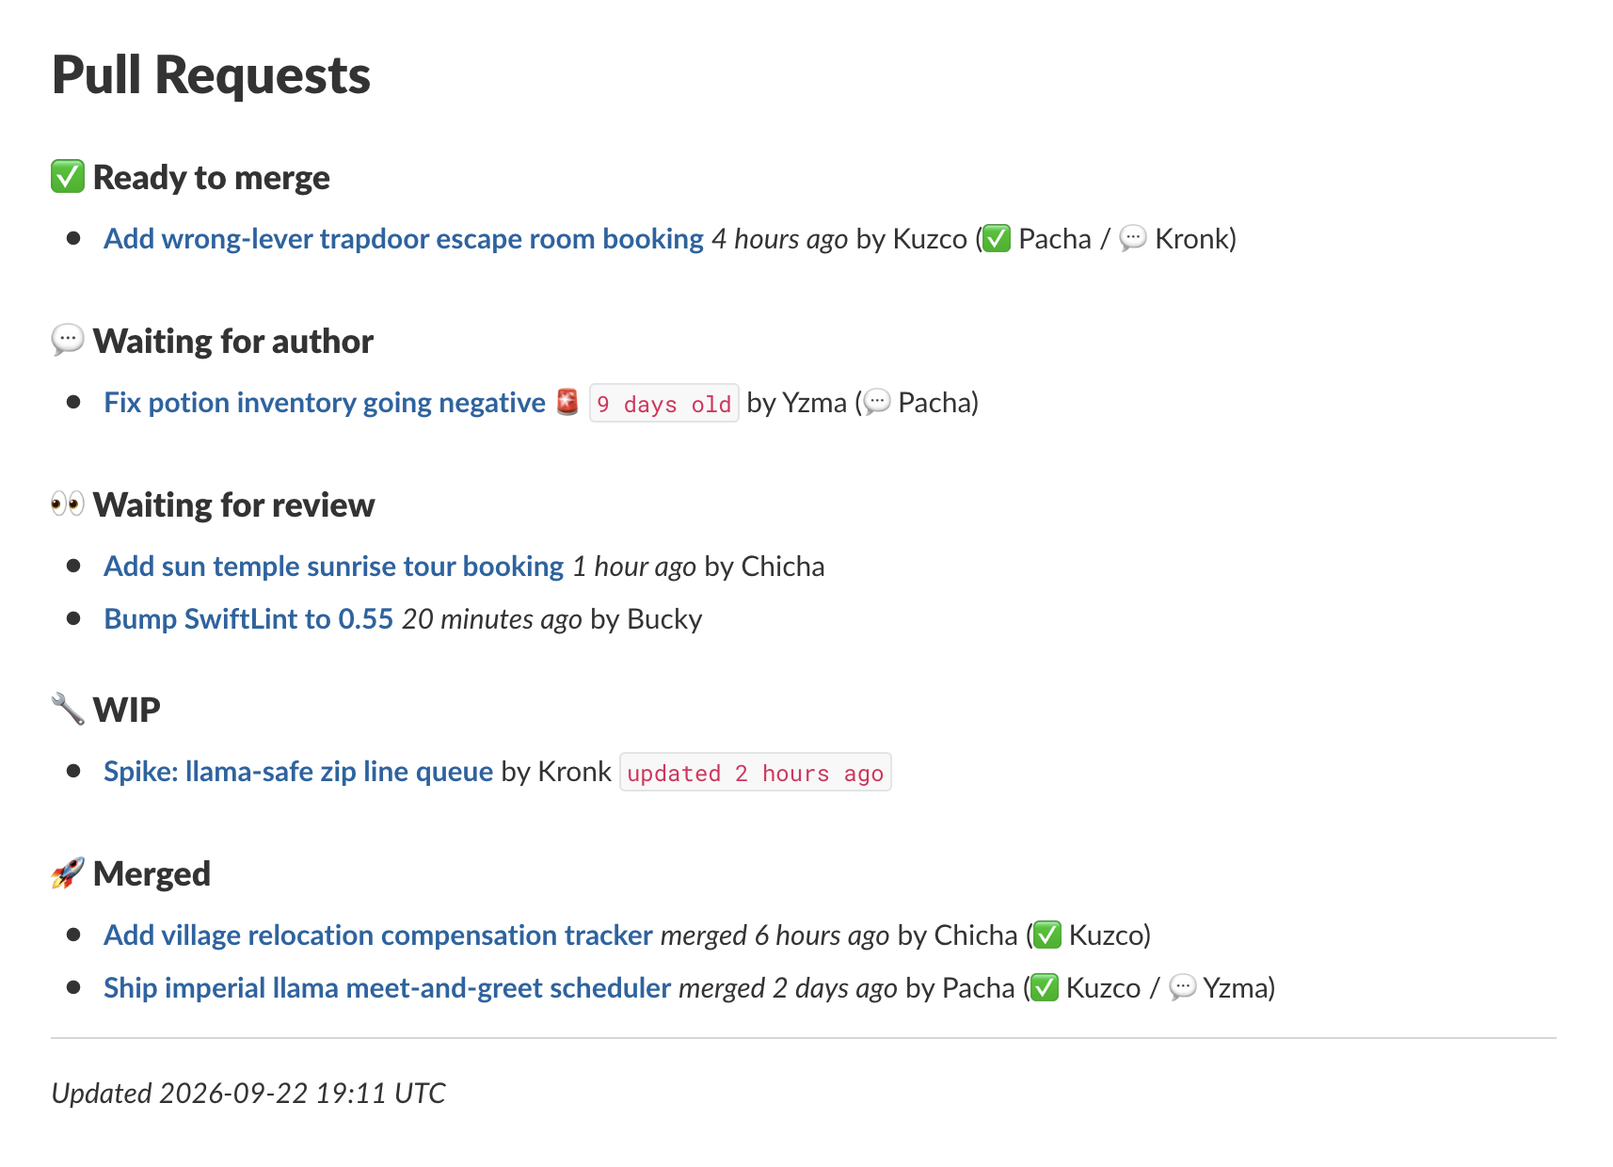
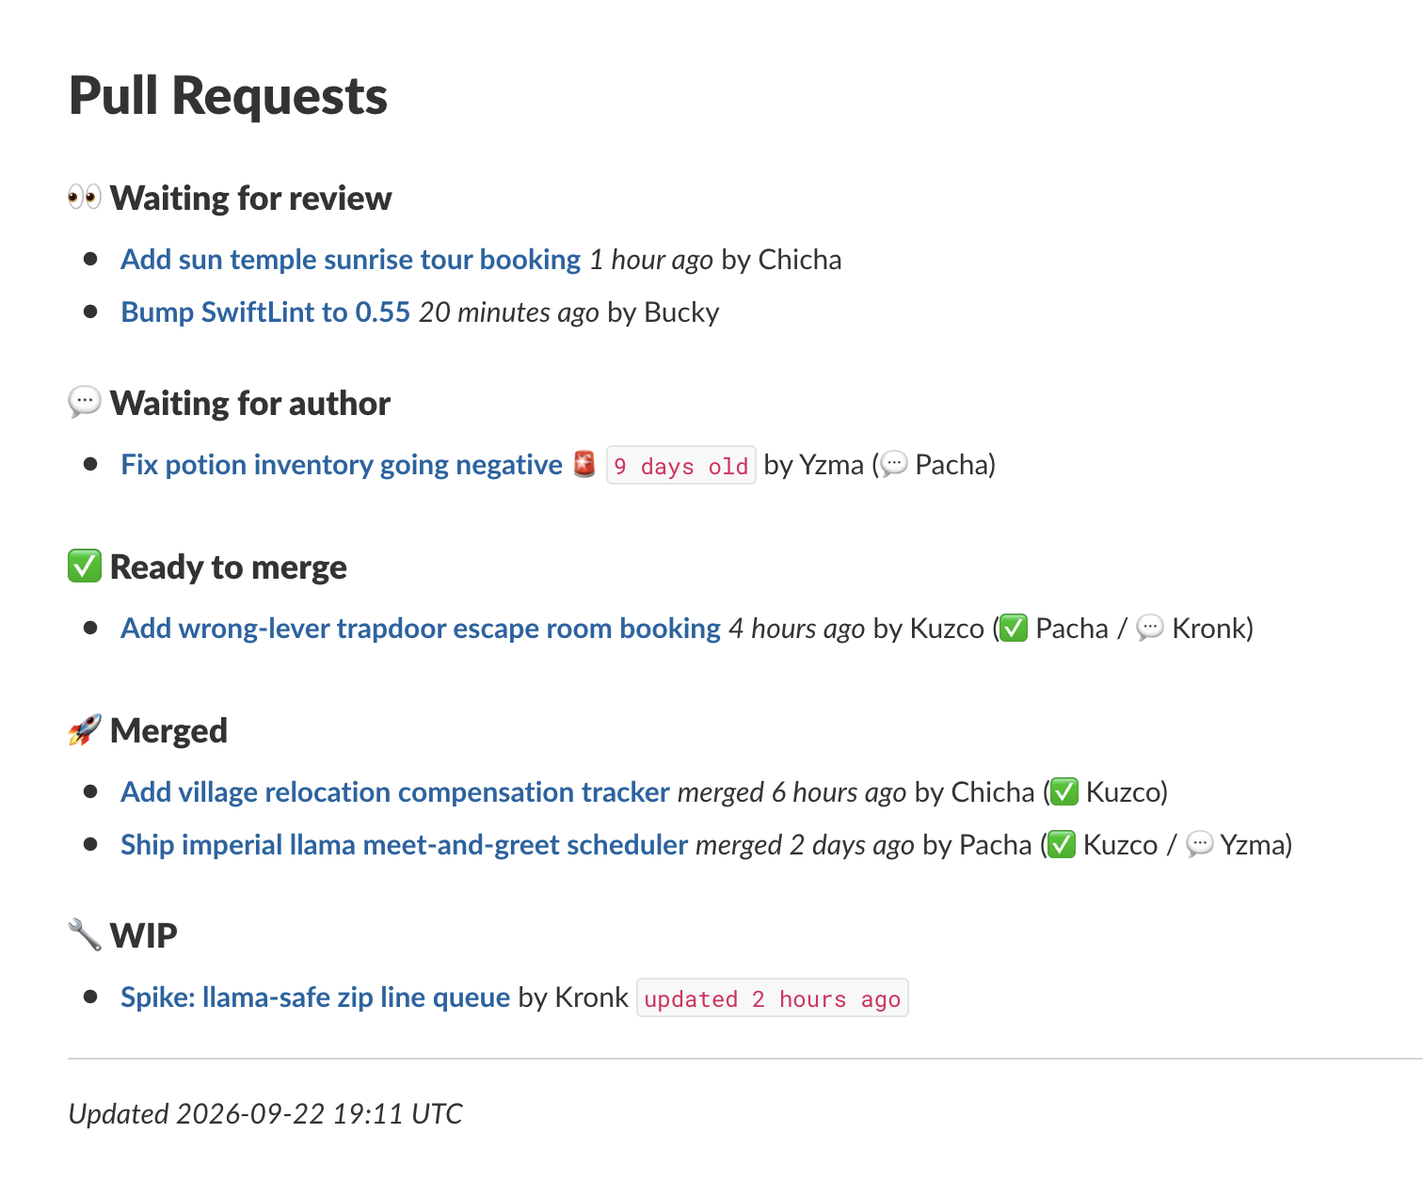
Reorder canvas sections: waiting for review first, WIP last (#77)
* Reorder canvas sections: waiting for review first, WIP last

The canvas now reads Waiting for review, Waiting for author, Ready to
merge, Merged, WIP. The most urgent ask leads and drafts, the least
actionable, come last. The Slack message is unchanged.

Claude-Session: https://claude.ai/code/session_01QU3XqSY37cbw4W6xkQNPJ1

* Update the example canvas screenshot to the new section order

---------

diff --git a/internal/canvasbuilder/canvasbuilder.go b/internal/canvasbuilder/canvasbuilder.go
@@ -13,12 +13,12 @@ import (
 )
 
 const (
-	readyToMergeHeading      = "## ✅ Ready to merge"
-	waitingForAuthorHeading  = "## 💬 Waiting for author"
 	waitingForReviewHeading  = "## 👀 Waiting for review"
+	waitingForAuthorHeading  = "## 💬 Waiting for author"
+	readyToMergeHeading      = "## ✅ Ready to merge"
 	openPRsHeading           = "## Open"
-	wipPRsHeading            = "## 🔧 WIP"
 	mergedPRsHeading         = "## 🚀 Merged"
+	wipPRsHeading            = "## 🔧 WIP"
 	noOpenPRsText            = "_No open PRs_"
 	noWIPPRsText             = "_No work in progress_"
 	noMergedPRsText          = "_No merged PRs_"
@@ -30,20 +30,20 @@ const (
 func BuildMarkdown(content canvascontent.Content) string {
 	blocks := renderOpenSections(content)
 	blocks = append(blocks, renderSectionBlocks(section{
-		heading:             wipPRsHeading,
-		prs:                 content.WIP.PRs,
-		groups:              content.WIP.Groups,
-		groupedByRepository: content.GroupedByRepository,
-		renderRow:           renderWIPPRRow,
-		emptyText:           noWIPPRsText,
-	})...)
-	blocks = append(blocks, renderSectionBlocks(section{
 		heading:             mergedPRsHeading,
 		prs:                 content.Merged.PRs,
 		groups:              content.Merged.Groups,
 		groupedByRepository: content.GroupedByRepository,
 		renderRow:           renderMergedPRRow,
 		emptyText:           emptyMergedPRsText(content),
+	})...)
+	blocks = append(blocks, renderSectionBlocks(section{
+		heading:             wipPRsHeading,
+		prs:                 content.WIP.PRs,
+		groups:              content.WIP.Groups,
+		groupedByRepository: content.GroupedByRepository,
+		renderRow:           renderWIPPRRow,
+		emptyText:           noWIPPRsText,
 	})...)
 	// A blank block collapses to no space in Slack's canvas renderer: a non-breaking space
 	// forces the line to render, giving room above the divider.
@@ -55,9 +55,9 @@ func BuildMarkdown(content canvascontent.Content) string {
 // All three buckets empty falls back to the single "Open" heading with "No open PRs" text.
 func renderOpenSections(content canvascontent.Content) []string {
 	nextActionSections := []section{
-		openSection(readyToMergeHeading, content.ReadyToMerge, content.GroupedByRepository),
-		openSection(waitingForAuthorHeading, content.WaitingForAuthor, content.GroupedByRepository),
 		openSection(waitingForReviewHeading, content.WaitingForReview, content.GroupedByRepository),
+		openSection(waitingForAuthorHeading, content.WaitingForAuthor, content.GroupedByRepository),
+		openSection(readyToMergeHeading, content.ReadyToMerge, content.GroupedByRepository),
 	}
 
 	blocks := utilities.FlatMap(utilities.Map(nextActionSections, renderSectionBlocks))

diff --git a/internal/canvasbuilder/canvasbuilder_test.go b/internal/canvasbuilder/canvasbuilder_test.go
@@ -482,7 +482,10 @@ func TestBuildMarkdownSectionHeadings(t *testing.T) {
 		number: 1, title: "Add pagination to the PR listing", authorName: "Alice Anderson",
 		age: hoursAge,
 	})}}
-	alwaysRenderedHeadings := []string{"## 🔧 WIP", "## 🚀 Merged"}
+	grouped := canvascontent.PRSection{
+		Groups: prview.GroupPRsByRepositoriesInGivenOrder(filled.PRs),
+	}
+	alwaysRenderedHeadings := []string{"## 🚀 Merged", "## 🔧 WIP"}
 
 	testCases := []struct {
 		name                 string
@@ -509,7 +512,7 @@ func TestBuildMarkdownSectionHeadings(t *testing.T) {
 			content: canvascontent.Content{
 				ReadyToMerge: filled, WaitingForReview: filled,
 			},
-			expectedOpenHeadings: []string{"## ✅ Ready to merge", "## 👀 Waiting for review"},
+			expectedOpenHeadings: []string{"## 👀 Waiting for review", "## ✅ Ready to merge"},
 		},
 		{
 			name: "every section filled",
@@ -518,11 +521,22 @@ func TestBuildMarkdownSectionHeadings(t *testing.T) {
 				WIP: filled, Merged: filled,
 			},
 			expectedOpenHeadings: []string{
-				"## ✅ Ready to merge", "## 💬 Waiting for author", "## 👀 Waiting for review",
+				"## 👀 Waiting for review", "## 💬 Waiting for author", "## ✅ Ready to merge",
 			},
 		},
 		{
-			// Nothing open at all keeps one heading, so the canvas does not open at ## 🔧 WIP.
+			name: "every section filled while grouping by repository",
+			content: canvascontent.Content{
+				ReadyToMerge: grouped, WaitingForAuthor: grouped, WaitingForReview: grouped,
+				WIP: grouped, Merged: grouped,
+				GroupedByRepository: true,
+			},
+			expectedOpenHeadings: []string{
+				"## 👀 Waiting for review", "## 💬 Waiting for author", "## ✅ Ready to merge",
+			},
+		},
+		{
+			// Nothing open at all keeps one heading, so the canvas does not open at ## 🚀 Merged.
 			name:                 "nothing open",
 			content:              canvascontent.Content{},
 			expectedOpenHeadings: []string{"## Open"},

diff --git a/internal/canvasbuilder/testdata/TestBuildMarkdownSnapshots-all-sections-grouped-by-repository.md b/internal/canvasbuilder/testdata/TestBuildMarkdownSnapshots-all-sections-grouped-by-repository.md
@@ -1,33 +1,3 @@
-## ✅ Ready to merge
-
-### [repo-three](https://github.com/test-org/repo-three/pulls)
-
-- **[Drop the deprecated input](https://github.com/test-org/repo-three/pull/23)** _3 days ago_ by Carol Clark (✅ Frank Foster / 💬 Erin Evans)
-
-### [test-repo](https://github.com/test-org/test-repo/pulls)
-
-- **[Cache the repository lookups](https://github.com/test-org/test-repo/pull/21)** _5 hours ago_ by Alice Anderson (✅ Dana Davis)
-- **[Pin the action digests](https://github.com/test-org/test-repo/pull/24)** _5 hours ago_ by Dana Davis (✅ Alice Anderson, Bob Brown / 💬 Carol Clark, Erin Evans)
-
-### [repo-two](https://github.com/test-org/repo-two/pulls)
-
-- **[Retry the artifact download](https://github.com/test-org/repo-two/pull/22)** _30 minutes ago_ by Bob Brown (✅ Dana Davis, Erin Evans)
-
-## 💬 Waiting for author
-
-### [test-repo](https://github.com/test-org/test-repo/pulls)
-
-- **[Rework the snooze parser](https://github.com/test-org/test-repo/pull/31)** 🚨 `10 days old` by Bob Brown (💬 Dana Davis)
-- **[Escape the canvas titles](https://github.com/test-org/test-repo/pull/34)** _30 minutes ago_ by Erin Evans (💬 Frank Foster)
-
-### [repo-two](https://github.com/test-org/repo-two/pulls)
-
-- **[Split the config package](https://github.com/test-org/repo-two/pull/32)** _3 days ago_ by Carol Clark (💬 Alice Anderson, Erin Evans)
-
-### [repo-three](https://github.com/test-org/repo-three/pulls)
-
-- **[Handle the 404 on missing repositories](https://github.com/test-org/repo-three/pull/33)** _5 hours ago_ by Dana Davis (✅ Alice Anderson / 💬 Bob Brown)
-
 ## 👀 Waiting for review
 
 ### [test-repo](https://github.com/test-org/test-repo/pulls)
@@ -45,15 +15,35 @@
 - **[Bump golangci-lint](https://github.com/test-org/repo-two/pull/45)** _5 hours ago_ by Erin Evans
 - **[Document the canvas scopes](https://github.com/test-org/repo-two/pull/42)** _30 minutes ago_ by Bob Brown
 
-## 🔧 WIP
-
-### [repo-two](https://github.com/test-org/repo-two/pulls)
-
-- **[Draft the migration guide](https://github.com/test-org/repo-two/pull/11)** by Bob Brown `updated 30 minutes ago`
+## 💬 Waiting for author
 
 ### [test-repo](https://github.com/test-org/test-repo/pulls)
 
-- **[Spike: replace mux with chi](https://github.com/test-org/test-repo/pull/3)** by Carol Clark `updated 5 hours ago`
+- **[Rework the snooze parser](https://github.com/test-org/test-repo/pull/31)** 🚨 `10 days old` by Bob Brown (💬 Dana Davis)
+- **[Escape the canvas titles](https://github.com/test-org/test-repo/pull/34)** _30 minutes ago_ by Erin Evans (💬 Frank Foster)
+
+### [repo-two](https://github.com/test-org/repo-two/pulls)
+
+- **[Split the config package](https://github.com/test-org/repo-two/pull/32)** _3 days ago_ by Carol Clark (💬 Alice Anderson, Erin Evans)
+
+### [repo-three](https://github.com/test-org/repo-three/pulls)
+
+- **[Handle the 404 on missing repositories](https://github.com/test-org/repo-three/pull/33)** _5 hours ago_ by Dana Davis (✅ Alice Anderson / 💬 Bob Brown)
+
+## ✅ Ready to merge
+
+### [repo-three](https://github.com/test-org/repo-three/pulls)
+
+- **[Drop the deprecated input](https://github.com/test-org/repo-three/pull/23)** _3 days ago_ by Carol Clark (✅ Frank Foster / 💬 Erin Evans)
+
+### [test-repo](https://github.com/test-org/test-repo/pulls)
+
+- **[Cache the repository lookups](https://github.com/test-org/test-repo/pull/21)** _5 hours ago_ by Alice Anderson (✅ Dana Davis)
+- **[Pin the action digests](https://github.com/test-org/test-repo/pull/24)** _5 hours ago_ by Dana Davis (✅ Alice Anderson, Bob Brown / 💬 Carol Clark, Erin Evans)
+
+### [repo-two](https://github.com/test-org/repo-two/pulls)
+
+- **[Retry the artifact download](https://github.com/test-org/repo-two/pull/22)** _30 minutes ago_ by Bob Brown (✅ Dana Davis, Erin Evans)
 
 ## 🚀 Merged
 
@@ -64,6 +54,16 @@
 ### [test-repo](https://github.com/test-org/test-repo/pulls)
 
 - **[Drop the REST fallback](https://github.com/test-org/test-repo/pull/9)** _merged 3 days ago_ by Alice Anderson (✅ Dana Davis / 💬 Erin Evans)
+
+## 🔧 WIP
+
+### [repo-two](https://github.com/test-org/repo-two/pulls)
+
+- **[Draft the migration guide](https://github.com/test-org/repo-two/pull/11)** by Bob Brown `updated 30 minutes ago`
+
+### [test-repo](https://github.com/test-org/test-repo/pulls)
+
+- **[Spike: replace mux with chi](https://github.com/test-org/test-repo/pull/3)** by Carol Clark `updated 5 hours ago`
 
 
 

diff --git a/internal/canvasbuilder/testdata/TestBuildMarkdownSnapshots-flat-open-PRs-and-WIP-PRs.md b/internal/canvasbuilder/testdata/TestBuildMarkdownSnapshots-flat-open-PRs-and-WIP-PRs.md
@@ -1,17 +1,3 @@
-## ✅ Ready to merge
-
-- **[Drop the deprecated input](https://github.com/test-org/repo-three/pull/23)** _3 days ago_ by Carol Clark (✅ Frank Foster / 💬 Erin Evans)
-- **[Cache the repository lookups](https://github.com/test-org/test-repo/pull/21)** _5 hours ago_ by Alice Anderson (✅ Dana Davis)
-- **[Pin the action digests](https://github.com/test-org/test-repo/pull/24)** _5 hours ago_ by Dana Davis (✅ Alice Anderson, Bob Brown / 💬 Carol Clark, Erin Evans)
-- **[Retry the artifact download](https://github.com/test-org/repo-two/pull/22)** _30 minutes ago_ by Bob Brown (✅ Dana Davis, Erin Evans)
-
-## 💬 Waiting for author
-
-- **[Rework the snooze parser](https://github.com/test-org/test-repo/pull/31)** 🚨 `10 days old` by Bob Brown (💬 Dana Davis)
-- **[Split the config package](https://github.com/test-org/repo-two/pull/32)** _3 days ago_ by Carol Clark (💬 Alice Anderson, Erin Evans)
-- **[Handle the 404 on missing repositories](https://github.com/test-org/repo-three/pull/33)** _5 hours ago_ by Dana Davis (✅ Alice Anderson / 💬 Bob Brown)
-- **[Escape the canvas titles](https://github.com/test-org/test-repo/pull/34)** _30 minutes ago_ by Erin Evans (💬 Frank Foster)
-
 ## 👀 Waiting for review
 
 - **[Trim the trailing newline](https://github.com/test-org/test-repo/pull/44)** 🚨 `10 days old` by Dana Davis
@@ -21,15 +7,29 @@
 - **[Document the canvas scopes](https://github.com/test-org/repo-two/pull/42)** _30 minutes ago_ by Bob Brown
 - **[Collapse the duplicate filters](https://github.com/test-org/repo-three/pull/46)** _30 minutes ago_ by Frank Foster
 
-## 🔧 WIP
+## 💬 Waiting for author
 
-- **[Spike: replace mux with chi](https://github.com/test-org/test-repo/pull/3)** by Carol Clark `updated 5 hours ago`
-- **[Draft the migration guide](https://github.com/test-org/repo-two/pull/11)** by Bob Brown `updated 30 minutes ago`
+- **[Rework the snooze parser](https://github.com/test-org/test-repo/pull/31)** 🚨 `10 days old` by Bob Brown (💬 Dana Davis)
+- **[Split the config package](https://github.com/test-org/repo-two/pull/32)** _3 days ago_ by Carol Clark (💬 Alice Anderson, Erin Evans)
+- **[Handle the 404 on missing repositories](https://github.com/test-org/repo-three/pull/33)** _5 hours ago_ by Dana Davis (✅ Alice Anderson / 💬 Bob Brown)
+- **[Escape the canvas titles](https://github.com/test-org/test-repo/pull/34)** _30 minutes ago_ by Erin Evans (💬 Frank Foster)
+
+## ✅ Ready to merge
+
+- **[Drop the deprecated input](https://github.com/test-org/repo-three/pull/23)** _3 days ago_ by Carol Clark (✅ Frank Foster / 💬 Erin Evans)
+- **[Cache the repository lookups](https://github.com/test-org/test-repo/pull/21)** _5 hours ago_ by Alice Anderson (✅ Dana Davis)
+- **[Pin the action digests](https://github.com/test-org/test-repo/pull/24)** _5 hours ago_ by Dana Davis (✅ Alice Anderson, Bob Brown / 💬 Carol Clark, Erin Evans)
+- **[Retry the artifact download](https://github.com/test-org/repo-two/pull/22)** _30 minutes ago_ by Bob Brown (✅ Dana Davis, Erin Evans)
 
 ## 🚀 Merged
 
 - **[Bump the Slack SDK](https://github.com/test-org/repo-two/pull/2)** _merged 5 hours ago_ by Bob Brown
 - **[Drop the REST fallback](https://github.com/test-org/test-repo/pull/9)** _merged 3 days ago_ by Alice Anderson (✅ Dana Davis / 💬 Erin Evans)
+
+## 🔧 WIP
+
+- **[Spike: replace mux with chi](https://github.com/test-org/test-repo/pull/3)** by Carol Clark `updated 5 hours ago`
+- **[Draft the migration guide](https://github.com/test-org/repo-two/pull/11)** by Bob Brown `updated 30 minutes ago`
 
 
 

diff --git a/internal/canvasbuilder/canvasbuilder.spec.md b/internal/canvasbuilder/canvasbuilder.spec.md
@@ -4,9 +4,9 @@ Renders `canvascontent.Content` as the markdown of a Slack canvas, as one string
 
 ## Behaviour
 
-- `BuildMarkdown(content)` renders the open PRs as three sections, `## ✅ Ready to merge`, then `## 💬 Waiting for author`, then `## 👀 Waiting for review`, then `## 🔧 WIP`, then `## 🚀 Merged`, each with its own list
-- An open section with no PRs renders nothing at all, heading included, so a reader scanning the headings sees only the buckets asking something of them. `## 🔧 WIP` and `## 🚀 Merged` always render
-- All three open sections empty renders one `## Open` heading with `_No open PRs_`, the zero state the canvas had before the open split: a canvas opening at `## 🔧 WIP` would read as a broken render
+- `BuildMarkdown(content)` renders five sections, each with its own list: the open PRs split into `## 👀 Waiting for review`, `## 💬 Waiting for author` and `## ✅ Ready to merge`, then `## 🚀 Merged`, then `## 🔧 WIP`. The most urgent ask leads. Drafts are the least actionable, so they come last
+- An open section with no PRs renders nothing at all, heading included, so a reader scanning the headings sees only the buckets asking something of them. `## 🚀 Merged` and `## 🔧 WIP` always render
+- All three open sections empty renders one `## Open` heading with `_No open PRs_` in their place, the zero state the canvas had before the open split: a canvas opening at `## 🚀 Merged` would read as a broken render
 - `## Open` is the one heading without an emoji: it stands for all three open buckets, so no single emoji fits it
 - Any section can render grouped: its PRs then get one `###` sub-heading per repository, the repository name without its owner, linking to `models.Repository.GetPullsURL()`. The section heading above them already scopes the rows, so it is not repeated. Each section reads its own grouped slice, so all of them group together, off the one `Content.GroupedByRepository` flag. Nothing dedupes a repository across sections, so one repository can carry a `###` heading under each
 - The three open sections share one row renderer, one empty-state line and one heading level: only the heading text and the PR list differ. A PR's bucket is `canvascontent`'s to decide

diff --git a/internal/canvasbuilder/testdata/TestBuildMarkdownSnapshots-nothing-ready-to-merge.md b/internal/canvasbuilder/testdata/TestBuildMarkdownSnapshots-nothing-ready-to-merge.md
@@ -1,10 +1,3 @@
-## 💬 Waiting for author
-
-- **[Rework the snooze parser](https://github.com/test-org/test-repo/pull/31)** 🚨 `10 days old` by Bob Brown (💬 Dana Davis)
-- **[Split the config package](https://github.com/test-org/repo-two/pull/32)** _3 days ago_ by Carol Clark (💬 Alice Anderson, Erin Evans)
-- **[Handle the 404 on missing repositories](https://github.com/test-org/repo-three/pull/33)** _5 hours ago_ by Dana Davis (✅ Alice Anderson / 💬 Bob Brown)
-- **[Escape the canvas titles](https://github.com/test-org/test-repo/pull/34)** _30 minutes ago_ by Erin Evans (💬 Frank Foster)
-
 ## 👀 Waiting for review
 
 - **[Trim the trailing newline](https://github.com/test-org/test-repo/pull/44)** 🚨 `10 days old` by Dana Davis
@@ -14,13 +7,20 @@
 - **[Document the canvas scopes](https://github.com/test-org/repo-two/pull/42)** _30 minutes ago_ by Bob Brown
 - **[Collapse the duplicate filters](https://github.com/test-org/repo-three/pull/46)** _30 minutes ago_ by Frank Foster
 
-## 🔧 WIP
+## 💬 Waiting for author
 
-- **[Spike: replace mux with chi](https://github.com/test-org/test-repo/pull/3)** by Carol Clark `updated 5 hours ago`
+- **[Rework the snooze parser](https://github.com/test-org/test-repo/pull/31)** 🚨 `10 days old` by Bob Brown (💬 Dana Davis)
+- **[Split the config package](https://github.com/test-org/repo-two/pull/32)** _3 days ago_ by Carol Clark (💬 Alice Anderson, Erin Evans)
+- **[Handle the 404 on missing repositories](https://github.com/test-org/repo-three/pull/33)** _5 hours ago_ by Dana Davis (✅ Alice Anderson / 💬 Bob Brown)
+- **[Escape the canvas titles](https://github.com/test-org/test-repo/pull/34)** _30 minutes ago_ by Erin Evans (💬 Frank Foster)
 
 ## 🚀 Merged
 
 _No merged PRs_
+
+## 🔧 WIP
+
+- **[Spike: replace mux with chi](https://github.com/test-org/test-repo/pull/3)** by Carol Clark `updated 5 hours ago`
 
 
 

diff --git a/README.md b/README.md
@@ -200,7 +200,7 @@ Optional: keep a Slack canvas updated with a live view of open, draft and recent
 
 <img src="docs/examples/example_canvas.png" alt="Example PR tracker canvas" width="600" style="border: 1px solid #ddd; border-radius: 4px; padding: 8px;">
 
-Open PRs are split by whose turn it is: an approved PR with nothing outstanding is ready to merge (1); a PR carrying a changes request whose reviewer hasn't been re-requested, or a review thread its author hasn't answered, and an approved one that now conflicts, are waiting for the author (2); everything else is waiting for review (3).
+Open PRs are split by whose turn it is: waiting for review (1) is every open PR not in the other two; waiting for the author (2) is a PR carrying a changes request whose reviewer hasn't been re-requested, or a review thread its author hasn't answered, or an approved one that now conflicts; ready to merge (3) is an approved PR with nothing outstanding.
 
 Each open section is listed oldest first, WIP PRs by most recent activity, merged PRs by most recent merge. At most 5 drafts idle for over 24 hours are shown. The merged section lists at most 6 PRs merged within the last 7 days.
 

diff --git a/internal/canvasbuilder/testdata/TestBuildMarkdownSnapshots-ready-to-merge-PRs-only.md b/internal/canvasbuilder/testdata/TestBuildMarkdownSnapshots-ready-to-merge-PRs-only.md
@@ -5,13 +5,13 @@
 - **[Pin the action digests](https://github.com/test-org/test-repo/pull/24)** _5 hours ago_ by Dana Davis (✅ Alice Anderson, Bob Brown / 💬 Carol Clark, Erin Evans)
 - **[Retry the artifact download](https://github.com/test-org/repo-two/pull/22)** _30 minutes ago_ by Bob Brown (✅ Dana Davis, Erin Evans)
 
-## 🔧 WIP
-
-- **[Spike: replace mux with chi](https://github.com/test-org/test-repo/pull/3)** by Carol Clark `updated 5 hours ago`
-
 ## 🚀 Merged
 
 _No merged PRs_
+
+## 🔧 WIP
+
+- **[Spike: replace mux with chi](https://github.com/test-org/test-repo/pull/3)** by Carol Clark `updated 5 hours ago`
 
 
 

diff --git a/internal/canvasbuilder/testdata/TestBuildMarkdownSnapshots-markdown-characters-in-titles-and-names.md b/internal/canvasbuilder/testdata/TestBuildMarkdownSnapshots-markdown-characters-in-titles-and-names.md
@@ -4,13 +4,13 @@
 
 - **[Fix \[ABC-123\] crash in \`make test\` \& \*\*WIP\*\* \_debug\_ \~legacy\~ C:\\path \<b\>](https://github.com/test-org/repo_two/pull/7)** _5 hours ago_ by Al\*ice\_And\[erson\] (💬 E\~rin \<Evans\>)
 
-## 🔧 WIP
-
-- **[Draft: \&amp; \<https://example.com\> \\\_escaped\_](https://github.com/test-org/test-repo/pull/8)** by B\`ob \& Brown `updated 30 minutes ago`
-
 ## 🚀 Merged
 
 _No merged PRs_
+
+## 🔧 WIP
+
+- **[Draft: \&amp; \<https://example.com\> \\\_escaped\_](https://github.com/test-org/test-repo/pull/8)** by B\`ob \& Brown `updated 30 minutes ago`
 
 
 

diff --git a/internal/canvasbuilder/testdata/TestBuildMarkdownSnapshots-merged-PRs-could-not-be-fetched.md b/internal/canvasbuilder/testdata/TestBuildMarkdownSnapshots-merged-PRs-could-not-be-fetched.md
@@ -2,13 +2,13 @@
 
 - **[Add pagination to the PR listing](https://github.com/test-org/test-repo/pull/1)** _5 hours ago_ by Alice Anderson (✅ Dana Davis / 💬 Erin Evans)
 
-## 🔧 WIP
-
-- **[Spike: replace mux with chi](https://github.com/test-org/test-repo/pull/3)** by Carol Clark `updated 5 hours ago`
-
 ## 🚀 Merged
 
 _Merged PRs could not be fetched_
+
+## 🔧 WIP
+
+- **[Spike: replace mux with chi](https://github.com/test-org/test-repo/pull/3)** by Carol Clark `updated 5 hours ago`
 
 
 

diff --git a/internal/canvasbuilder/testdata/TestBuildMarkdownSnapshots-WIP-PRs-capped.md b/internal/canvasbuilder/testdata/TestBuildMarkdownSnapshots-WIP-PRs-capped.md
@@ -2,13 +2,13 @@
 
 - **[Add pagination to the PR listing](https://github.com/test-org/test-repo/pull/1)** _5 hours ago_ by Alice Anderson (✅ Dana Davis / 💬 Erin Evans)
 
-## 🔧 WIP
-
-- **[Spike: replace mux with chi](https://github.com/test-org/test-repo/pull/3)** by Carol Clark `updated 5 hours ago`
-
 ## 🚀 Merged
 
 _No merged PRs_
+
+## 🔧 WIP
+
+- **[Spike: replace mux with chi](https://github.com/test-org/test-repo/pull/3)** by Carol Clark `updated 5 hours ago`
 
 
 

diff --git a/internal/canvasbuilder/testdata/TestBuildMarkdownSnapshots-both-sections-capped.md b/internal/canvasbuilder/testdata/TestBuildMarkdownSnapshots-both-sections-capped.md
@@ -2,13 +2,13 @@
 
 - **[Add pagination to the PR listing](https://github.com/test-org/test-repo/pull/1)** _5 hours ago_ by Alice Anderson (✅ Dana Davis / 💬 Erin Evans)
 
-## 🔧 WIP
-
-- **[Spike: replace mux with chi](https://github.com/test-org/test-repo/pull/3)** by Carol Clark `updated 5 hours ago`
-
 ## 🚀 Merged
 
 _No merged PRs_
+
+## 🔧 WIP
+
+- **[Spike: replace mux with chi](https://github.com/test-org/test-repo/pull/3)** by Carol Clark `updated 5 hours ago`
 
 
 
